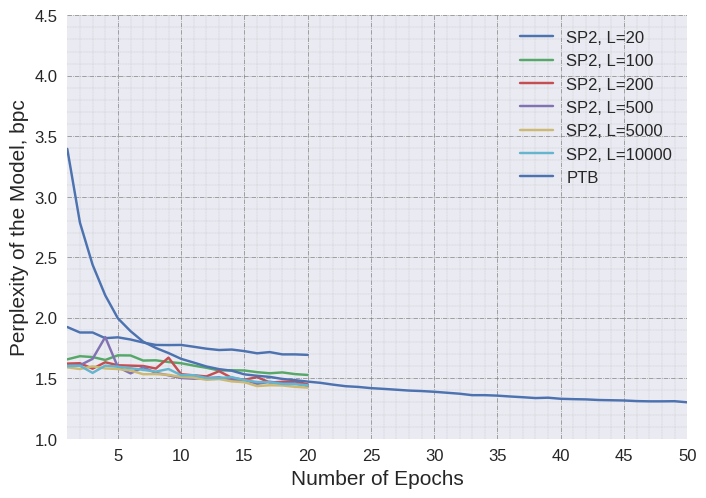
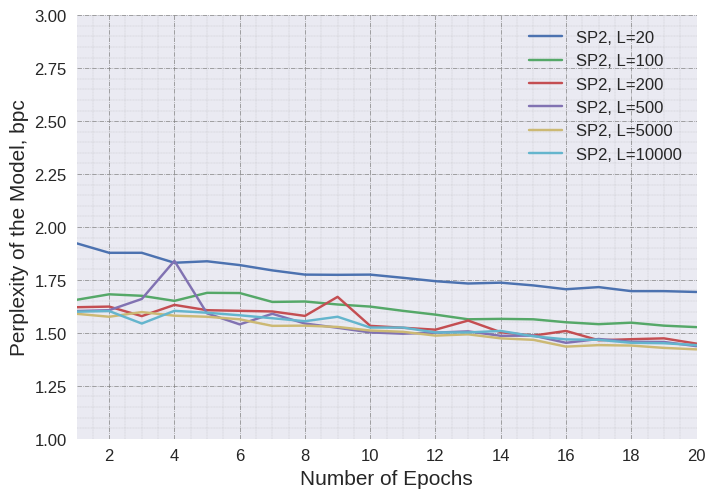
up

diff --git a/plot_spk_span.py b/plot_spk_span.py
@@ -29,7 +29,7 @@ from matplotlib.figure import Figure
 # y5 = np.array([2.572,2.619,2.626,2.612,1.696,1.389,1.308,1.307,1.305,1.305])
 # y6 = np.array([2.675,2.668,2.666,2.667,1.714,1.386,1.301,1.301,1.301,1.301])
 
-# AWD-LSTM
+# # AWD-LSTM
 # y1 = np.array([1.624,1.600,1.594,1.606,1.599,1.600,1.593,1.594,1.593,1.593,1.593,1.593,1.593,1.593,1.593,1.593,1.593,1.593,1.593,1.593,1.593,1.593,1.593,1.593,1.593])
 # y2 = np.array([1.413,1.413,1.410,1.407,1.408,1.406,1.395,1.404,1.414,1.393,1.393,1.393,1.393,1.393,1.393,1.393,1.393,1.393,1.393,1.393,1.393,1.393,1.393,1.393,1.393])
 # y3 = np.array([1.350,1.346,1.348,1.346,1.344,1.345,1.346,1.346,1.344,1.344,1.344,1.344,1.344,1.344,1.344,1.344,1.344,1.344,1.344,1.344,1.344,1.344,1.344,1.344,1.344])
@@ -80,12 +80,12 @@ with plt.style.context(('seaborn')):
     plt.minorticks_on()
     plt.grid(which='major', linestyle='-.', linewidth='0.5', color='grey')
     plt.grid(which='minor', linestyle=':', linewidth='0.2', color='grey')
-    plt.xlim(1, len(y7))
-    plt.ylim(1, 4.5)
+    plt.xlim(1, len(y6))
+    plt.ylim(1, 3)
     plt.xlabel('Number of Epochs', fontsize=15)
     plt.ylabel('Perplexity of the Model, bpc', fontsize=15)
     lgd = plt.legend(loc='upper right', shadow=True, fancybox=True, numpoints=1, prop={'size': 12})
     ax = plt.gca()
     ax.xaxis.set_major_locator(MaxNLocator(integer=True))
-    plt.savefig('perplexity_PTB', bbox_extra_artists=(lgd,), bbox_inches='tight')
+    plt.savefig('perplexity_Transformer-XL_14M', bbox_extra_artists=(lgd,), bbox_inches='tight')
     plt.show()
